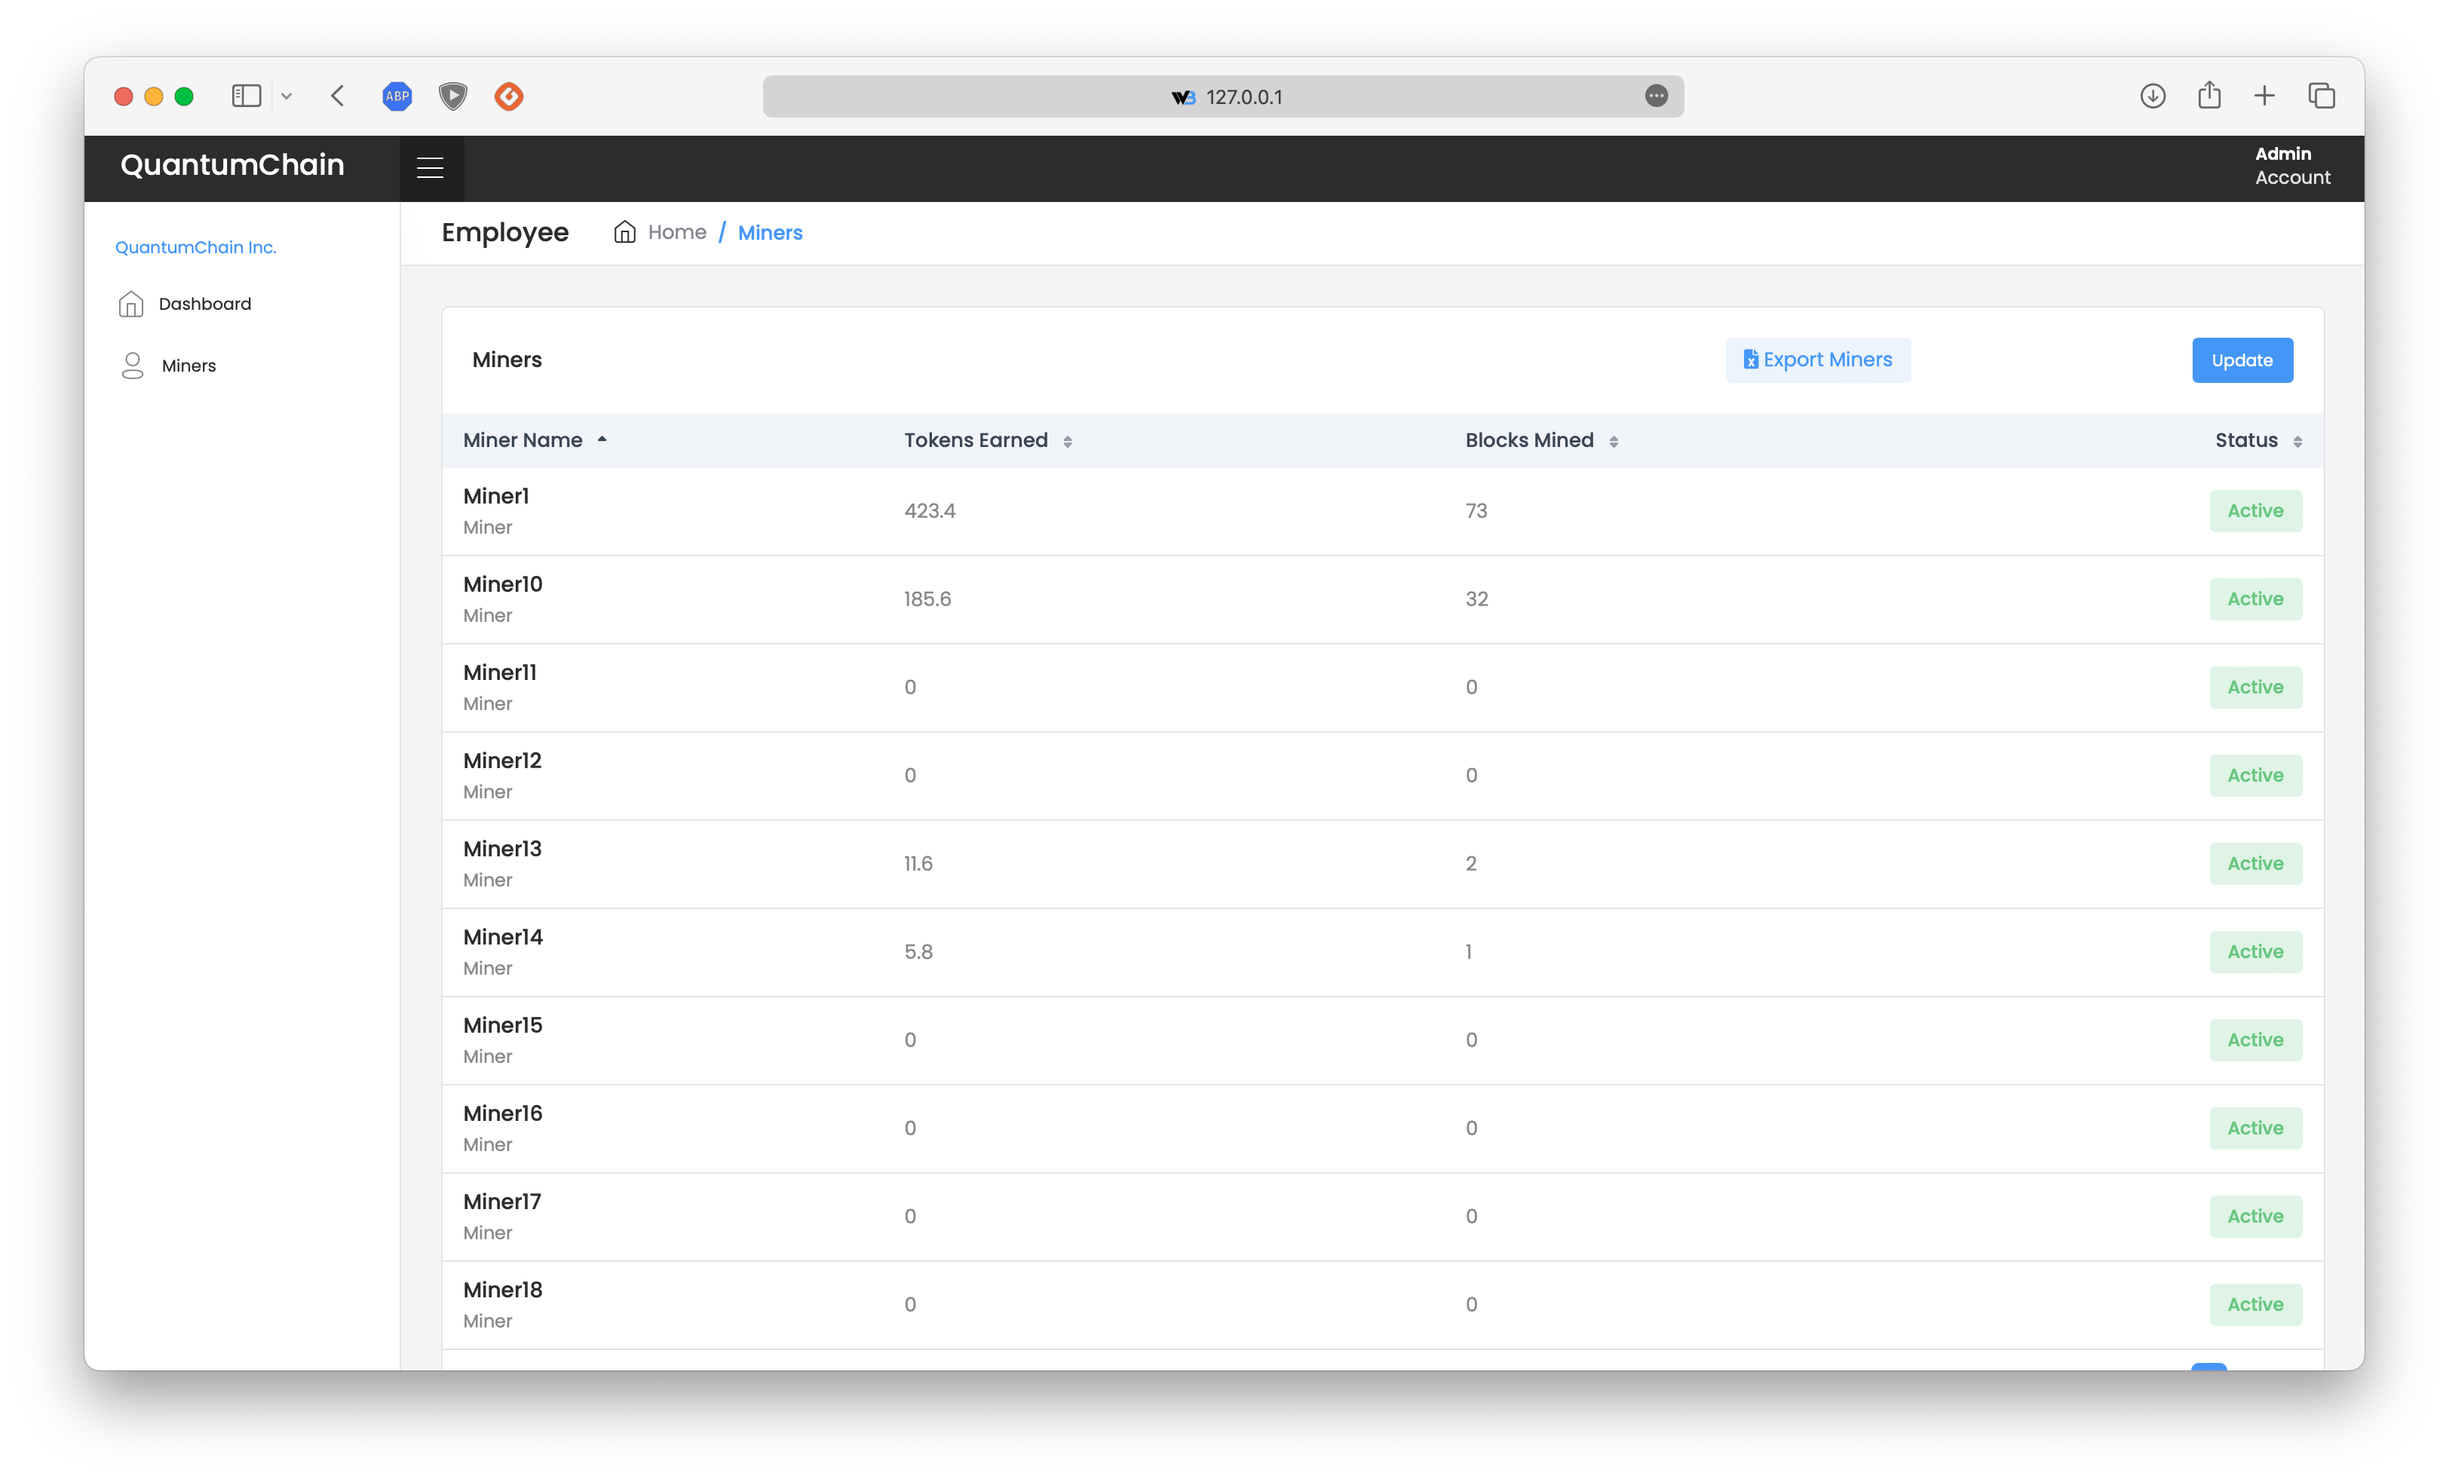
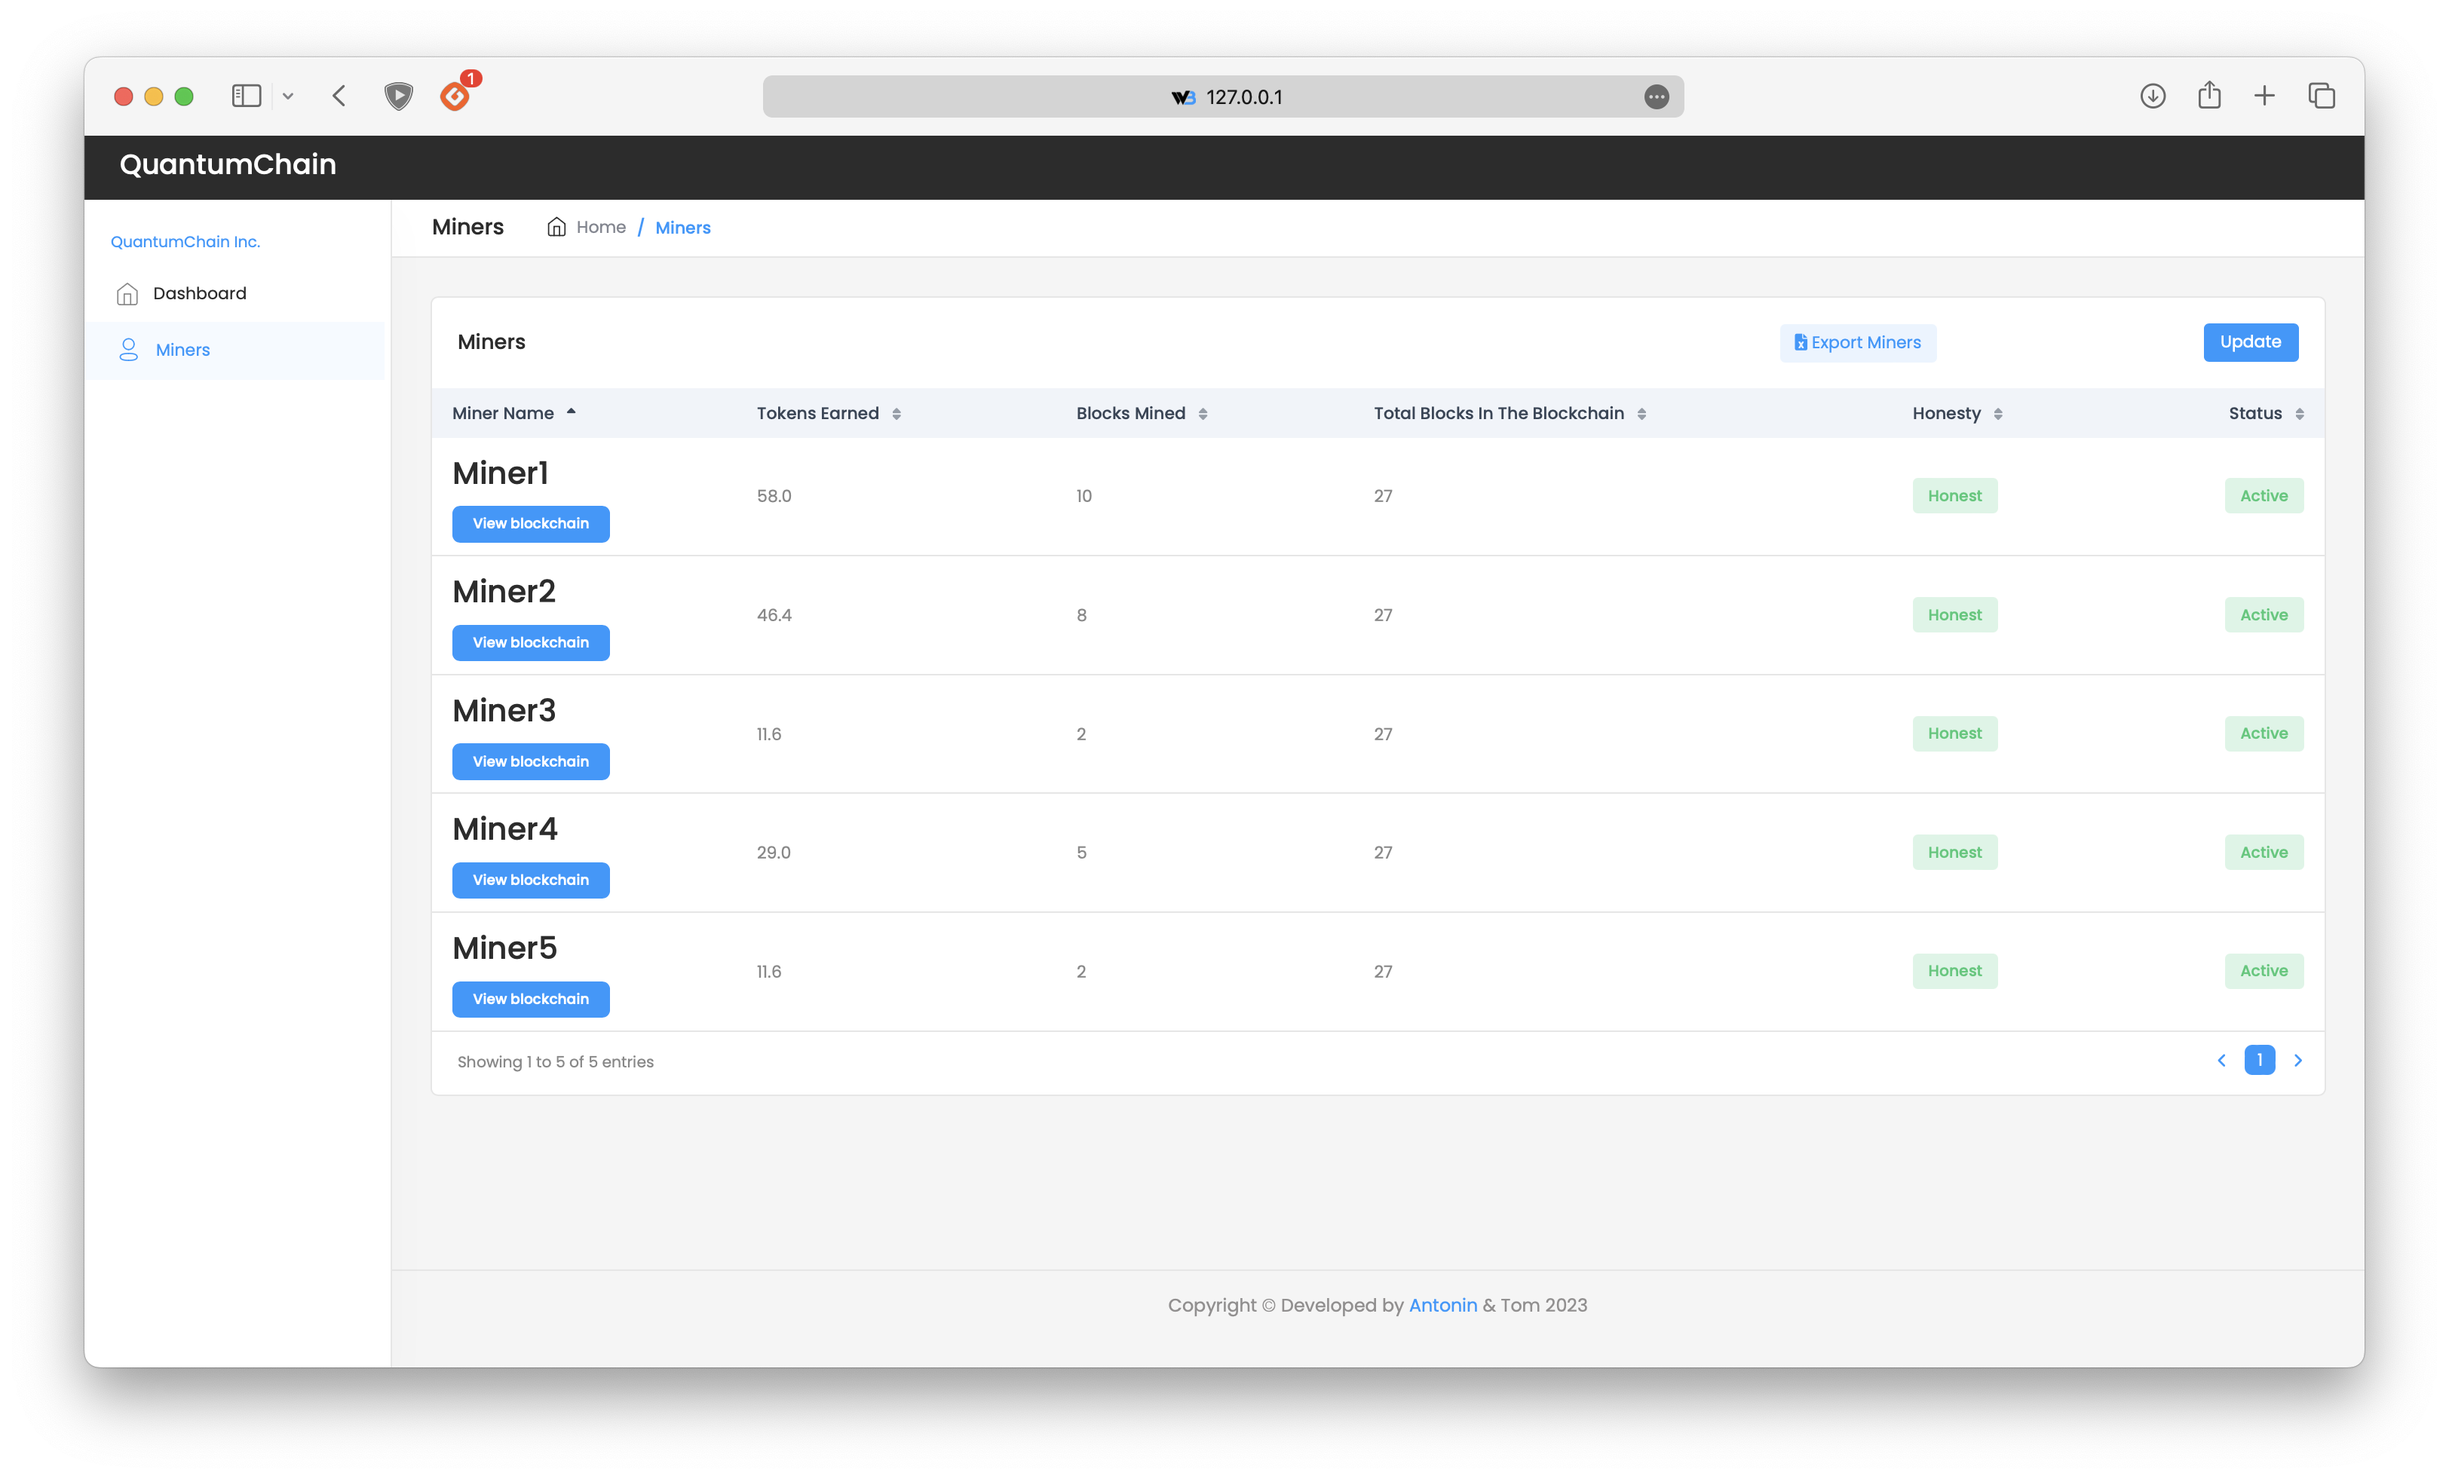
ReadME

diff --git a/README.md b/README.md
@@ -1,31 +1,153 @@
-# QuantumChain
-A POS blockchain implementation in Python.
+<h1 align="center">
+  <br>
+  <a href="http://www.amitmerchant.com/electron-markdownify"><img src="images/background.jpeg" alt="Markdownify" width="700"></a>
+  <br><br>
+  Blockchain Simulator
+  <br>
+</h1>
 
-# Installation
+<h4 align="center">Un simulateur de blockchain de type "Proof Of Work" comme le Bitcoin.</h4>
+
+<p align="center">
+  <a href="#introduction">Introduction</a> •
+    <a href="#mode-demploi">Mode d'emploi</a> •
+    <a href="#simulateur-de-blockchain-et-implémentation-des-mineurs">Implémentation</a> •
+    <a href="#interface-du-système-blockchain">Interface</a> •
+    <a href="#résultats-de-simulation">Résultats</a> •
+    <a href="#conclusion">Conclusion</a>
+</p>
+
+# Introduction
+
+L'objectif de ce projet est de développer un simulateur de blockchain de type "Proof Of Work" comme le Bitcoin. Pour cela nous utiliserons le langage de programmation python. Dans un soucis d'interactivité nous avons crée une interface sur laquelle on pourra visualiser toutes les données pertinentes ainsi qu'agir sur la blockchain et ses acteurs. 
+Pour réaliser ce projet nous avons utilisé les technologies suivantes : Flask pour l'interface, Threads pour gérer les mineurs indépendemment, MQTT pour l'envoie des blocks entre les mineurs, Plotly pour les graphiques techniques.
+
+Tout le code du projet est disponible sur le repositoire *[Github](https://github.com/antonin-lfv/QuantumChain)*. Le *mode d'emploi* est disponible à la fin de ce rapport.
+
+# Mode d'emploi
+## Installation
 
 ```
 pip install -r requirements.txt
 ```
 
-# Run blockchain
+## Lancer la blockchain
 
-Move to the Blockchain directory
+Se déplacer dans le dossier `Blockchain`
 ```
 cd Blockchain
 ```
 
-Run the main.py file
+Lancer le fichier main.py
 ```
 python main.py
 ```
 
-# Run frontend
+## Lancer l'interface
 
 ```bash
 flask run
 ```
 
-# reset the simulation
+## Réinitialiser la simulation
 
-- set the content of miners.json to []
-- empty the directory Blockchain/miners_blockchain
+- Modifier le contenu de miners.json en une liste vide `[]`
+- Vider le dossier `Blockchain/miners_blockchain`
+
+# Simulateur de Blockchain et Implémentation des Mineurs
+
+Le simulateur de blockchain repose sur le mécanisme de preuve de travail (PoW). Au début, $n$ mineurs sont créés, chacun fonctionnant sur un thread distinct. Chaque mineur détient une copie du bloc "Genèse" pour initialiser sa blockchain. 
+
+Le cœur de l'activité des mineurs est le minage. Cela implique de changer un "Nonce" (un nombre entier aléatoire) jusqu'à ce que le hash du bloc, dérivé de l'algorithme SHA-256, commence par $k$ zéros. Trouver un tel bloc est une tâche ardue, mais une fois qu'un mineur réussit, il transmet ce bloc à tous les autres mineurs via le protocole MQTT. Il ajoute également ce bloc à sa blockchain et prépare une transaction de récompense pour lui-même dans le prochain bloc à miner, avec une récompense fixée à 5.8 tokens.
+
+La réception d'un bloc par un mineur peut entraîner deux scénarios :
+1. *Mineur Honnête* : Le mineur vérifie d'abord l'intégrité du bloc reçu. Il contrôle l'index du bloc, les spécificités du hash, le hash précédent, et calcule le hash actuel. Si le bloc est validé, il est ajouté à sa blockchain. En outre, si certaines transactions qu'il était en train de valider figurent déjà dans le bloc reçu, il les retire de sa liste de transactions en attente et les remplace par d'autres transactions non validées pour le prochain bloc. 
+2. *Mineur Malhonnête* : Il refusera tous les blocs reçus et continuera de miner uniquement sur sa propre blockchain.
+
+Techniquement, chaque mineur est créé dans un thread distinct et possède un nom unique. Il s'abonne au topic MQTT `blockchain/blocks` pour partager et recevoir des blocs. Lors du minage, le mineur varie le Nonce du bloc en cours et calcule le hash avec SHA-256. Une fois qu'il trouve un hash satisfaisant la condition des $k$ zéros, il ajoute ses détails au bloc et l'intègre à sa blockchain. Il met à jour ensuite les statistiques de sa blockchain pour l'interface utilisateur.
+
+Lorsqu'un mineur reçoit un bloc d'un autre mineur via MQTT, il agit selon sa nature (honnête ou malhonnête). Un mineur honnête vérifie l'intégrité du bloc, et s'il est validé, il l'intègre à sa blockchain. En cas de malhonnêteté, il refusera systématiquement les blocs entrants.
+
+Enfin, pour assurer la cohérence de la blockchain, si un mineur honnête observe que sa version de la blockchain est en retard de plus de 3 blocs par rapport à la chaîne la plus longue, il adoptera cette dernière. Un mineur malhonnête, en revanche, restera fidèle à sa propre version.
+
+# Interface du système blockchain
+
+L'interface utilisateur joue un rôle essentiel dans la visualisation et la gestion d'un simulateur de blockchain. Dans ce contexte, l'interface est élaborée avec l'aide de Flask, un micro-framework Python populaire pour le développement web, qui permet de créer une expérience utilisateur fluide et intuitive.
+
+<br>
+
+## *Page d'accueil*
+
+### Vue d'ensemble du système 
+Dès l'arrivée sur la page d'accueil, l'utilisateur est immédiatement informé de l'état actuel du système. Les informations clés, telles que le nombre de mineurs actuellement actifs, la taille de la blockchain la plus longue, la récompense en tokens attribuée pour chaque bloc miné et le temps moyen nécessaire pour découvrir un nouveau bloc, sont affichées.
+  
+### Détails des blocs
+Pour une analyse plus approfondie, les dix derniers blocs de la blockchain la plus longue sont listés, affichant des détails tels que son index dans la chaîne, le hash unique du bloc, le nonce, la date de création du bloc par le mineur qui l'a miné, la date de validation du bloc et le mineur qui a découvert le bloc.
+
+![image](images/dashboard_1.png)
+
+### Visualisation des forks
+Un aspect crucial de toute blockchain est la possibilité de forks, où différentes versions de la chaîne peuvent coexister. Un graphique est intégré pour visualiser toutes les blockchain en cours, aidant à identifier et à comprendre les forks et leurs origines. Chaque mineur est associé à une couleur pour bien les identifier sur le graphique. Au survol des points sur le graphique le hash, le miner et l'index du bloc apparait.
+
+![image](images/dashboard_2.png)
+
+## *Page des mineurs*
+
+### Vue d'ensemble des mineurs
+Cette page est dédiée à la présentation des caractéristiques de tous les mineurs, qu'ils soient actifs ou non. Les informations clés incluent la quantité de tokens gagnés à travers les récompenses de minage, le nombre total de blocs qu'ils ont découverts, la taille de leur version actuelle de la blockchain, et un indicateur de leur honnêteté.
+
+![image](images/miners_page.png)
+  
+## *Page de détails d'un mineur spécifique*
+
+### Caractéristiques du mineur
+Cette section offre une vue détaillée de la performance et des attributs d'un mineur spécifique. Elle indique si le mineur est actuellement actif, son niveau d'honnêteté (avec un bouton pour le modifier), le nombre total de tokens qu'il a gagnés par récompense après avoir miné un bloc et le nombre de blocs qu'il a minés.
+
+### Historique des transactions
+Les vingt dernières transactions impliquant le mineur (en tant qu'émetteur ou receveur) sont affichées pour une meilleure compréhension de ses activités.
+
+### Détails des blocs
+Tout comme la page d'accueil, les dix derniers blocs minés par ce mineur sont listés avec des détails approfondis, offrant une vue complète de sa contribution à la blockchain.
+
+![image](images/miner_details_1.png)
+
+# Résultats de simulation
+
+## Simulation avec que des mineurs honnêtes 
+
+On commence avec 5 mineurs honnêtes, ils minent tous et acceptent de recevoir des blocs d'autres mineurs pour le valider. Si on affiche les blockchains on obtient une seule version.
+
+![image](images/honest_1.png)
+
+Il se peut qu'un mineur trouve un bloc juste avant qu'un autre envoie le siens et donc il va se créer un Fork ou le mineur va être isolé. Voila le résultat.
+
+![image](images/honest_fork.png)
+
+Quand la blockchain la plus longue est 3 blocs devant alors le mineur isolé se déplace sur cette dernière.
+
+![image](images/honest_after_fork.png)
+
+
+## Simulation en ajoutant un mineurs malhonnêtes
+
+Lorsqu'on ajoute un mineur malhonnête il va créer un fork dès qu'il va miner un bloc, par exemple:
+
+![image](images/dishonest_1.png)
+
+Et ce mineur va rester sur sa version tant qu'il est malhonnête. Si il parvient à être 3 blocs plus grand que la blockchain principale alors il va attirer tous les autres mineurs et va donc gagner énormément de tokens. Mais ce scénario est impossible du fait de la loi des grands nombres.
+S'il redevient honnête alors il va se remettre sur la blockchain principale dès la prochaine réception d'un bloc d'un autre mineur.
+
+Notre exemple devient alors :
+
+![image](images/dishonest_after_become_honest.png)
+
+Il perd donc tous les tokens gagné lorsqu'il était malhonnête.
+
+
+# Conclusion
+
+À travers ce projet, nous avons réussi à développer un simulateur de blockchain basé sur le mécanisme "Proof Of Work" en utilisant le langage de programmation Python. En intégrant des technologies telles que Flask, Threads, MQTT et Plotly, nous avons pu créer une plateforme interactive et visuelle permettant aux utilisateurs de comprendre et d'interagir avec le processus de minage et la dynamique de la blockchain. L'interface utilisateur offre une vision complète de l'état actuel du système, des mineurs, des blocs et des forks possibles dans la blockchain. 
+
+L'approche unique d'incorporer des mineurs honnêtes et malhonnêtes offre un aperçu des défis liés à la sécurité et à l'intégrité de la blockchain. Elle souligne également l'importance de maintenir une version cohérente de la blockchain parmi les mineurs. 
+
+En conclusion, ce projet sert non seulement d'outil éducatif pour ceux qui cherchent à comprendre le fonctionnement interne de la blockchain, mais aussi comme une base pour d'éventuelles améliorations et extensions. 
